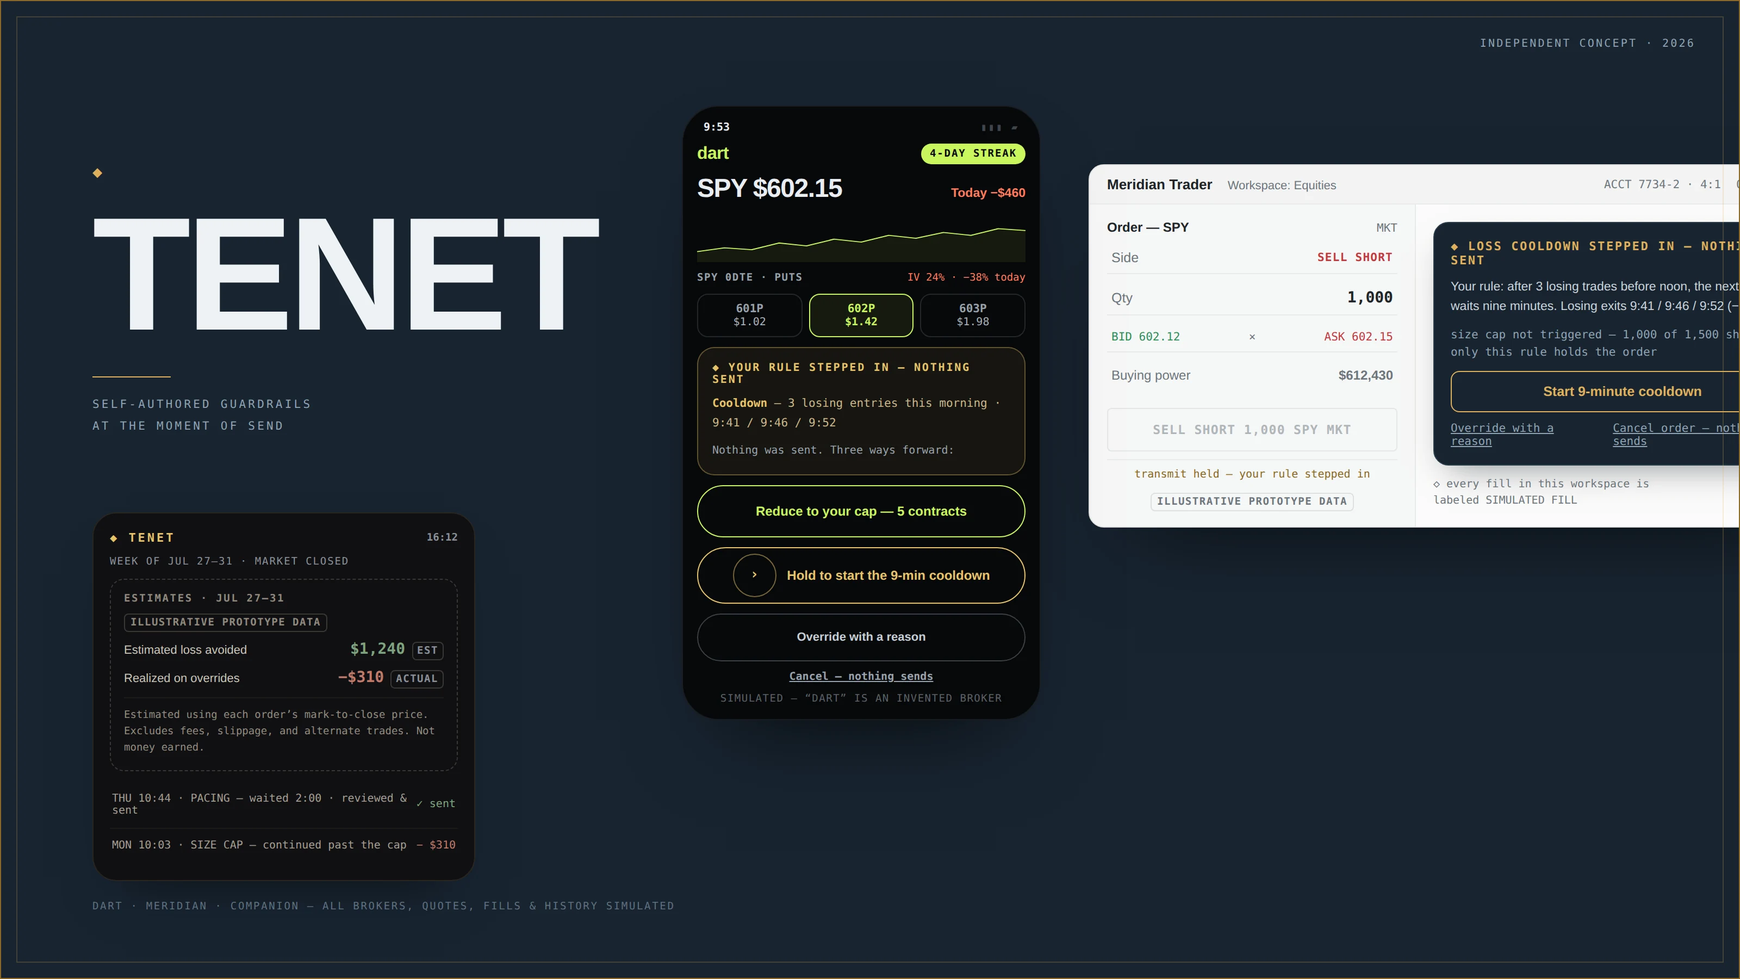
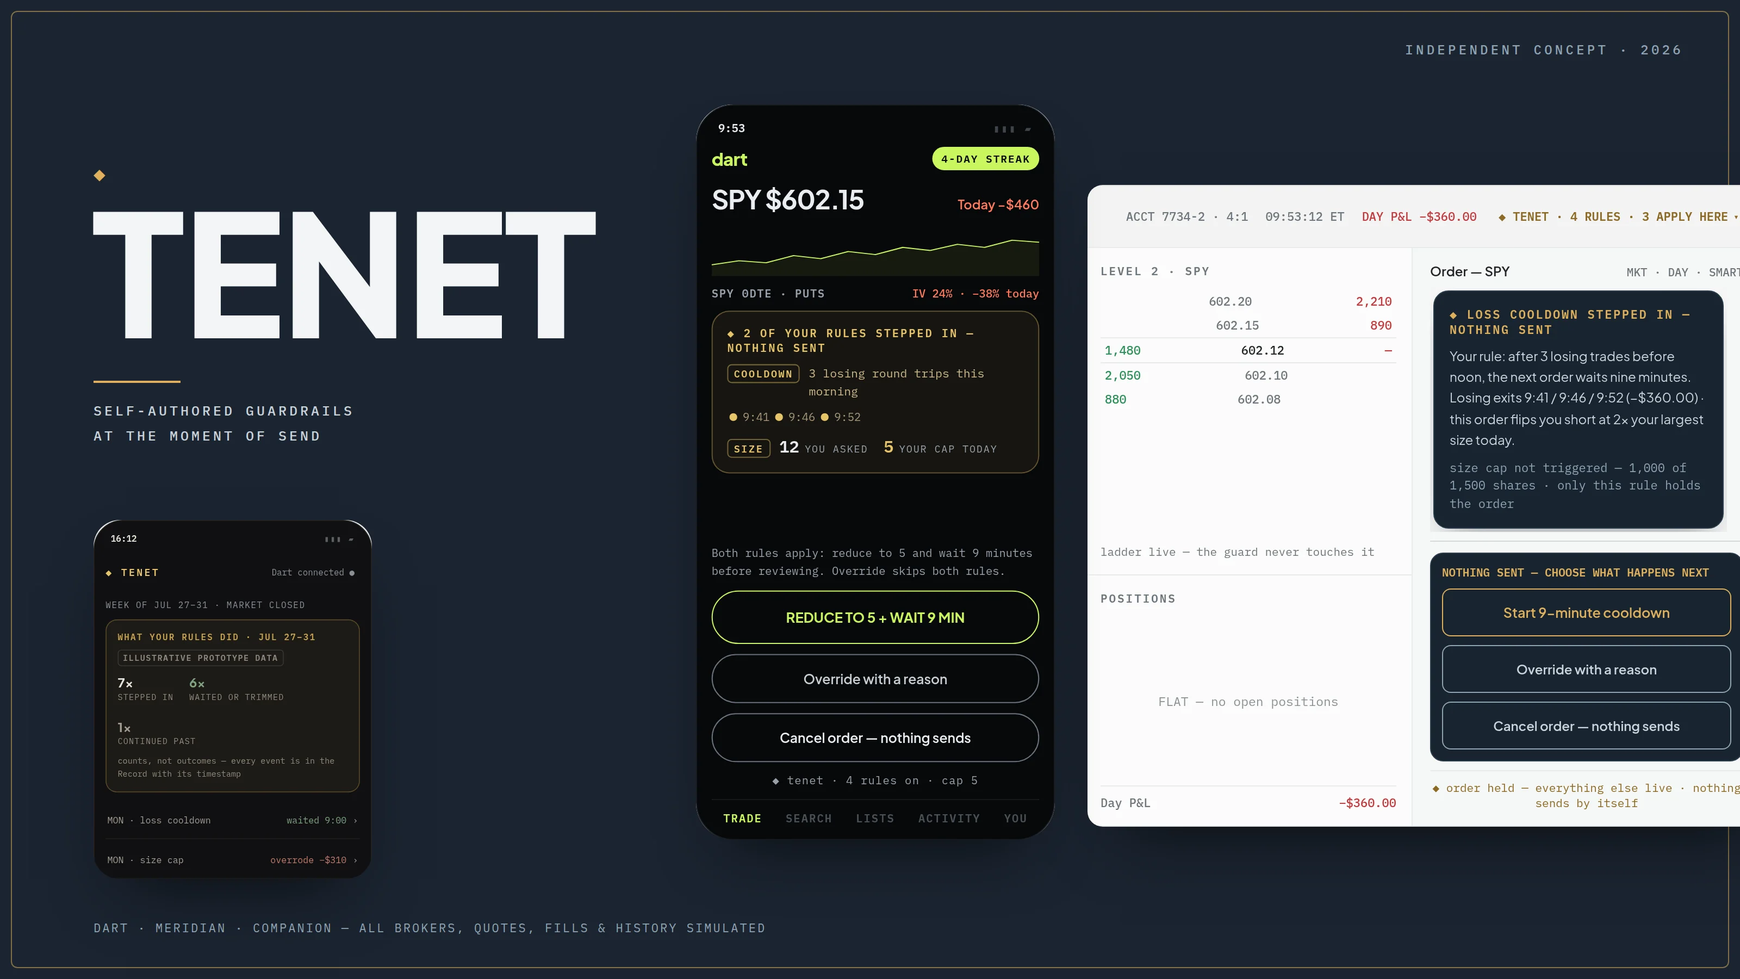
Refresh stale card art, align project numbering, add landmarks, fix copy and docs contrast
- Regenerate images/tenet/card.webp from the current prototype captures so the
  cover shows the combined "Reduce to 5 + wait 9 min" action instead of the
  retired separate actions; update the homepage alt text to match
- Regenerate images/social-card.png with the new Tenet art and the site's own
  positioning line
- Make project numbers agree everywhere: Morsel 01, Tenet 02, Hey Period 03,
  Matrix 04, Nhat Huong 05, Mug 06, Chatter 07; chain Mug to Chatter and drop
  the number from Matrix's back-to-work card
- Wrap page content in a <main> landmark on the homepage, About, Sketchbook and
  every live case study
- Chatter and Mug: rewrite headings that asserted research findings the body
  disclaims; Hey Period: remove an export note and a soft hyphen from the copy;
  Matrix: state the device-chrome inconsistency without the apology
- Morsel docs and the v3 prototype footer: raise secondary ink, link and accent
  colors to 4.5:1 or better

Claude-Session: https://claude.ai/code/session_01RPhUJV5Dq1bKkTBxfz4peW

diff --git a/morsel-docs/wireflow.html b/morsel-docs/wireflow.html
@@ -12,12 +12,12 @@
   body { font-family: "Hanken Grotesk", sans-serif; background: #EDE6D8; }
   .bar { display: flex; align-items: center; gap: 16px; flex-wrap: wrap; padding: 14px 24px; font-size: 13px; color: #5C4B38; }
   .bar .grow { flex: 1; }
-  .bar a { color: #B0542F; font-weight: 700; text-decoration: none; }
+  .bar a { color: #9C4726; font-weight: 700; text-decoration: none; }
   .bar a:hover { text-decoration: underline; }
   .zoomctl { display: flex; align-items: center; gap: 6px; }
   .zoomctl button { font: inherit; font-weight: 700; color: #5C4B38; background: #FFFCF5; border: 1px solid rgba(38,25,14,.18); border-radius: 99px; padding: 6px 14px; cursor: pointer; }
   .zoomctl button[data-on="true"] { background: #26190E; color: #F7F1E6; border-color: #26190E; }
-  .zoomctl .pct { font-weight: 700; min-width: 42px; text-align: center; color: rgba(38,25,14,.55); }
+  .zoomctl .pct { font-weight: 700; min-width: 42px; text-align: center; color: rgba(38,25,14,.65); }
   .viewport { width: 100%; overflow: auto; padding-bottom: 40px; }
   .fitbox { margin: 0 auto; }
   .stage { width: 1580px; height: 880px; transform-origin: top left; }
@@ -32,25 +32,25 @@
     border-radius: 12px; padding: 10px 12px; box-sizing: border-box;
   }
   .node h2 { margin: 0 0 4px; font-family: "Lora", serif; font-weight: 600; font-size: 15px; }
-  .node p { margin: 0 0 6px; font-size: 11.5px; line-height: 1.4; color: rgba(38,25,14,.62); }
-  .node .kicker { font-size: 9.5px; font-weight: 700; letter-spacing: .08em; text-transform: uppercase; color: rgba(38,25,14,.4); margin-bottom: 2px; }
+  .node p { margin: 0 0 6px; font-size: 11.5px; line-height: 1.4; color: rgba(38,25,14,.66); }
+  .node .kicker { font-size: 9.5px; font-weight: 700; letter-spacing: .08em; text-transform: uppercase; color: rgba(38,25,14,.65); margin-bottom: 2px; }
   .overlay { border-style: dashed; background: #FBF6EC; }
   .tags { display: flex; flex-wrap: wrap; gap: 4px; }
   .tag { font-size: 10px; font-weight: 700; border-radius: 99px; padding: 3px 8px; line-height: 1.2; }
   .tag.green { background: #DCE8D4; color: #3D5A2E; }
   .tag.amber { background: #F3E2C0; color: #7A5A16; }
-  .tag.exit { background: #EFE6D6; color: rgba(38,25,14,.55); }
+  .tag.exit { background: #EFE6D6; color: rgba(38,25,14,.65); }
   svg.wires { position: absolute; inset: 0; pointer-events: none; }
   svg.wires path, svg.wires line { fill: none; stroke: #A08D77; stroke-width: 2; }
   svg.wires .dashed { stroke-dasharray: 6 5; }
-  .wire-label { position: absolute; font-size: 10px; font-weight: 700; color: #8A7A66; background: #F7F1E6; padding: 1px 5px; border-radius: 6px; z-index: 5; }
+  .wire-label { position: absolute; font-size: 10px; font-weight: 700; color: #6F5F4B; background: #F7F1E6; padding: 1px 5px; border-radius: 6px; z-index: 5; }
   .titleblock { position: absolute; left: 28px; top: 22px; width: 600px; }
   .titleblock h1 { margin: 0; font-family: "Lora", serif; font-weight: 600; font-size: 26px; }
-  .titleblock p { margin: 6px 0 0; font-size: 12.5px; line-height: 1.5; color: rgba(38,25,14,.62); }
+  .titleblock p { margin: 6px 0 0; font-size: 12.5px; line-height: 1.5; color: rgba(38,25,14,.66); }
   .legend { position: absolute; right: 28px; top: 26px; display: flex; gap: 14px; align-items: center; font-size: 11.5px; color: rgba(38,25,14,.7); }
   .legend .tag { font-size: 10px; }
   .legend .dash { width: 26px; height: 0; border-top: 2px dashed #A08D77; display: inline-block; }
-  a { color: #B0542F; }
+  a { color: #9C4726; }
 </style>
 </head>
 <body>

diff --git a/heyperiod.html b/heyperiod.html
@@ -37,6 +37,7 @@
         <a class="bar-loc" href="mailto:lanchib.nguyen@gmail.com">OPEN TO NEW ROLES &rarr;</a>
       </header>
       <div class="bar-hairline"></div>
+      <main>
 
       <!-- hero -->
       <section class="proj-hero" id="case">
@@ -116,7 +117,7 @@
               <tr><th>Competitor</th><th>What it owns</th><th>Trust signal</th><th>Implication for Hey Period</th></tr>
               <tr><td><b>Flo</b></td><td>Category default; the pink</td><td>Ubiquity: "everyone uses it"</td><td>Borrow the familiar pink; differentiate on <em>lab data</em>, which Flo lacks</td></tr>
               <tr><td><b>Clue</b></td><td>Science-forward tracking</td><td>Clinical tone, citations</td><td>Matching Clue's coldness would erase the warmth women's-health forums say they miss</td></tr>
-              <tr><td><b>Mail-in test kits</b> (Everlywe&shy;ll-type)</td><td>The mail-a-sample behavior</td><td>Medical packaging, results dashboards</td><td>Proof the barrier is the unfamiliar <em>sample type</em>, once the kit feels professional</td></tr>
+              <tr><td><b>Mail-in test kits</b> (Everlywell-type)</td><td>The mail-a-sample behavior</td><td>Medical packaging, results dashboards</td><td>Proof the barrier is the unfamiliar <em>sample type</em>, once the kit feels professional</td></tr>
             </table></div>
             <p class="proj-p" style="margin-top:14px" data-ed="29">The two personas below were planning tools, not research findings. They gave the team two different trust thresholds to design for: someone already comfortable with health tracking, and someone using the product for a specific medical need.</p>
             <figure class="figure" style="margin-top: 26px">
@@ -173,7 +174,7 @@
             </div>
             <figure class="figure" style="margin-top: 26px">
               <img class="shot-img" src="images/heyperiod/web-fixed.webp" alt="Marketing website design: hero with 'Your period, your health, your way', biomarker map, three-step how-it-works, goal-based sections with charts, and waitlist signup" width="1600" height="1316" loading="lazy" data-ed="39" />
-              <figcaption class="figcap" data-ed="40"><span class="fk">Full site</span>(Typo in the goals headline corrected from the earlier export.)</figcaption>
+              <figcaption class="figcap" data-ed="40"><span class="fk">Full site</span>The waitlist page in full: explanation first, goal-based sections, then the signup.</figcaption>
             </figure>
           </div>
         </div>
@@ -245,8 +246,9 @@
       </section>
 
       <!-- next project -->
+      </main>
       <a class="next-proj" href="nhathuong.html">
-        <span><span class="k" data-ed="51">NEXT PROJECT &mdash; &#8470; 04</span><span class="t" data-ed="52">Nhat Huong Bakery &mdash; a legacy brand, modernised</span></span>
+        <span><span class="k" data-ed="51">NEXT PROJECT &mdash; &#8470; 05</span><span class="t" data-ed="52">Nhat Huong Bakery &mdash; a legacy brand, modernised</span></span>
         <span class="arw">&rarr;</span>
       </a>
     </div>

diff --git a/index.html b/index.html
@@ -37,6 +37,7 @@
         <a class="bar-loc" href="mailto:lanchib.nguyen@gmail.com">OPEN TO NEW ROLES &rarr;</a>
       </header>
       <div class="bar-hairline"></div>
+      <main>
 
       <!-- hero -->
       <section class="hero">
@@ -105,7 +106,7 @@
 <article class="flag f2 offset rv" data-ed="17">
             <div class="lit"><div class="lit-in">
               <a class="cover-link" href="tenet.html" aria-label="Tenet — interact with the prototype and read the case study"></a>
-              <img class="flag-img" src="images/tenet/card.webp" alt="Tenet portfolio card art: the wordmark beside the Companion estimates panel, the Dart phone with 'Your rule stepped in — nothing sent', and the light Meridian workstation with its loss-cooldown panel" width="1600" height="900" loading="lazy" data-ed="18" />
+              <img class="flag-img" src="images/tenet/card.webp" alt="Tenet portfolio card art: the wordmark beside three prototype surfaces. The Companion home with what your rules did this week, the Dart phone with '2 of your rules stepped in — nothing sent' and the combined Reduce to 5 + wait 9 min action, and the light Meridian workstation with its loss-cooldown panel" width="1600" height="900" loading="lazy" data-ed="18" />
               <div class="sleeve"><span class="l" data-ed="19">&#8470; 02 &middot; FUNCTIONAL PROTOTYPE &middot; 2026</span><span class="r" data-ed="20">&#9733; NEW</span></div>
               <div class="flag-body">
                 <span class="t" data-ed="21">Tenet</span>
@@ -153,7 +154,7 @@
 <div class="tin-wrap rv" data-ed="39">
   <a class="cover-link" href="nhathuong.html" aria-label="Read the Nhat Huong visual-system case study"></a>
   <div class="tin arbor"><img class="tin-img" src="images/nhathuong/lineup.webp" alt="Nhat Huong packaging system across product families" width="1600" height="900" loading="lazy" data-ed="40" />
-    <div class="in"><span class="no" data-ed="41">CLIENT &middot; VISUAL SYSTEM</span><span class="t" data-ed="42">Nhat Huong</span>
+    <div class="in"><span class="no" data-ed="41">&#8470; 05 &middot; CLIENT &middot; VISUAL SYSTEM</span><span class="t" data-ed="42">Nhat Huong</span>
     <span class="d" data-ed="43">A packaging system built around a retained identity, with color and pattern organizing the range.</span><span class="metric" data-static data-ed="44">BRAND TEAM &middot; DELIVERED DESIGNS</span></div>
   </div></div>
 </div>
@@ -215,6 +216,7 @@
       </section>
 
       <!-- footer / contact -->
+      </main>
       <footer class="foot stripes-dark" id="home-contact">
         <div class="bloom"></div>
         <span class="t rv" data-ed="59">Want to work <em>together?</em></span>

diff --git a/matrix.html b/matrix.html
@@ -37,11 +37,12 @@
         <a class="bar-loc" href="mailto:lanchib.nguyen@gmail.com">OPEN TO NEW ROLES &rarr;</a>
       </header>
       <div class="bar-hairline"></div>
+      <main>
 
       <!-- hero -->
       <section class="proj-hero" id="case">
         <div class="bloom"></div>
-        <a class="backlink" href="index.html#home-work">&larr; WORK / &#8470; 06 &middot; CLIENT</a>
+        <a class="backlink" href="index.html#home-work">&larr; WORK / &#8470; 04 &middot; CLIENT</a>
         <div class="proj-hero-grid">
           <div class="rv">
             <h1 data-ed="0">Matrix &mdash; making the next choice <em>visible</em></h1>
@@ -154,7 +155,7 @@
             <p class="proj-p" data-ed="36">The boards show the core flows, recurring components, and spacing within the supplied visual language. A complete implementation review would also need the following:</p>
             <ul class="feat-list">
               <li data-ed="37">Loading, empty, and error states are not shown here. The illustrated boards do not establish the contents of the complete handoff.</li>
-              <li data-ed="38">Device chrome is inconsistent across two boards (iOS status bars on some screens, not others); I'd re-export before showing these again.</li>
+              <li data-ed="38">Two boards carry different device chrome: iOS status bars on some screens and none on others. The flows shown are unaffected; a clean re-export is still to do.</li>
               <li data-ed="39">The neon-on-dark palette came with its contrast choices; small grey metadata on near-black is what I'd challenge first in a week two.</li>
             </ul>
             <p class="proj-p" style="margin-top:18px" data-ed="40">A follow-up review would first confirm state coverage with engineering, then resolve the states not shown here:</p>
@@ -183,8 +184,9 @@
       </section>
 
       <!-- next project -->
+      </main>
       <a class="next-proj" href="index.html#home-work">
-        <span><span class="k" data-ed="43">NEXT PROJECT &mdash; &#8470; 07</span><span class="t" data-ed="44">Back to selected work</span></span>
+        <span><span class="k" data-ed="43">NEXT</span><span class="t" data-ed="44">Back to selected work</span></span>
         <span class="arw">&rarr;</span>
       </a>
     </div>

diff --git a/chatter.html b/chatter.html
@@ -37,6 +37,7 @@
         <a class="bar-loc" href="mailto:lanchib.nguyen@gmail.com">OPEN TO NEW ROLES &rarr;</a>
       </header>
       <div class="bar-hairline"></div>
+      <main>
 
       <!-- hero -->
       <section class="proj-hero" id="case">
@@ -96,7 +97,7 @@
       <section class="proj-sec">
         <div class="rule"></div>
         <div class="proj-row rv">
-          <span class="side" role="heading" aria-level="2">PEOPLE LIKED CALLS,<br>BUT NOT THE SETUP</span>
+          <span class="side" role="heading" aria-level="2">WAS IT THE CALL,<br>OR THE SETUP?</span>
           <div style="display: flex; flex-direction: column; gap: 22px;">
             <p class="proj-p" data-ed="20">The working map below organizes concerns around writing updates, finding time to call, and catching up with context. It is included as an early design artifact; it does not establish participant counts or a representative finding.</p>
             <div class="quotes">
@@ -197,7 +198,7 @@
       <section class="proj-sec">
         <div class="rule"></div>
         <div class="proj-row rv">
-          <span class="side" role="heading" aria-level="2">THIS TIME, PEOPLE<br>NAMED USE CASES</span>
+          <span class="side" role="heading" aria-level="2">COULD A CAP MAKE A CALL<br>EASIER TO START?</span>
           <div style="display: flex; flex-direction: column; gap: 22px;">
             <p class="proj-p" data-ed="45">The final screens let the caller choose a time cap. This adds flexibility, but leaves a question: can a recipient still judge the commitment at a glance? The case does not establish a participant finding for that choice.</p>
             <div class="quotes">
@@ -295,8 +296,9 @@
       </section>
 
       <!-- next project -->
+      </main>
       <a class="next-proj" href="tenet.html">
-        <span><span class="k" data-ed="57">BACK TO &#8470; 01</span><span class="t" data-ed="58">Tenet &mdash; one deliberate moment</span></span>
+        <span><span class="k" data-ed="57">BACK TO &#8470; 02</span><span class="t" data-ed="58">Tenet &mdash; one deliberate moment</span></span>
         <span class="arw">&rarr;</span>
       </a>
     </div>

diff --git a/mug.html b/mug.html
@@ -37,11 +37,12 @@
         <a class="bar-loc" href="mailto:lanchib.nguyen@gmail.com">OPEN TO NEW ROLES &rarr;</a>
       </header>
       <div class="bar-hairline"></div>
+      <main>
 
       <!-- hero -->
       <section class="proj-hero" id="case">
         <div class="bloom"></div>
-        <a class="backlink" href="index.html#home-work">&larr; WORK / &#8470; 05 &middot; CONCEPT</a>
+        <a class="backlink" href="index.html#home-work">&larr; WORK / &#8470; 06 &middot; CONCEPT</a>
         <div class="proj-hero-grid">
           <div class="rv">
             <h1 data-ed="0">Mug &mdash; rewards for bringing your <em>own cup</em></h1>
@@ -88,7 +89,7 @@
       <section class="proj-sec">
         <div class="rule"></div>
         <div class="proj-row rv">
-          <span class="side" role="heading" aria-level="2">PEOPLE DID NOT NEED<br>ANOTHER LECTURE</span>
+          <span class="side" role="heading" aria-level="2">THE BET: CONVENIENCE,<br>NOT ANOTHER LECTURE</span>
           <p class="statement" data-ed="20">The concept assumes that forgetting, time pressure, and an unclear reward can get in the way of bringing a reusable cup. It explores convenience and incentives rather than treating awareness alone as the problem.</p>
         </div>
       </section>
@@ -290,8 +291,9 @@
       </section>
 
       <!-- next project -->
-      <a class="next-proj" href="matrix.html">
-        <span><span class="k" data-ed="67">NEXT PROJECT &mdash; &#8470; 06</span><span class="t" data-ed="68">Matrix &mdash; build-ready UI in one week</span></span>
+      </main>
+      <a class="next-proj" href="chatter.html">
+        <span><span class="k" data-ed="67">NEXT PROJECT &mdash; &#8470; 07</span><span class="t" data-ed="68">Chatter &mdash; from written updates to short calls</span></span>
         <span class="arw">&rarr;</span>
       </a>
     </div>

diff --git a/morsel-proto/v3/app/app.jsx b/morsel-proto/v3/app/app.jsx
@@ -288,14 +288,14 @@ function MorselPage() {
           <MorselApp />
         </div>
       </div>
-      <div style={{ fontFamily: "'Hanken Grotesk', sans-serif", fontSize: 13, color: "#8A7A66", display: "flex", flexDirection: "column", alignItems: "center", gap: 6 }}>
+      <div style={{ fontFamily: "'Hanken Grotesk', sans-serif", fontSize: 13, color: "#6F5F4B", display: "flex", flexDirection: "column", alignItems: "center", gap: 6 }}>
         <div style={{ display: "flex", gap: 14, alignItems: "center", flexWrap: "wrap", justifyContent: "center", padding: "0 16px" }}>
           <span style={{ fontWeight: 700, color: "#5C4B38" }}>Morsel v3</span>
           <span>final iteration</span>
-          <a href="../morsel-docs/wireflow.html" style={{ color: "#B0542F", fontWeight: 600 }}>wireflow →</a>
-          <a href="../morsel-docs/explorations.html" style={{ color: "#B0542F", fontWeight: 600 }}>explorations →</a>
-          <a href="../morsel-docs/ds-addendum.html" style={{ color: "#B0542F", fontWeight: 600 }}>ds addendum →</a>
-          <a href="../morsel.html" style={{ color: "#B0542F", fontWeight: 600 }}>case study →</a>
+          <a href="../morsel-docs/wireflow.html" style={{ color: "#9C4726", fontWeight: 600 }}>wireflow →</a>
+          <a href="../morsel-docs/explorations.html" style={{ color: "#9C4726", fontWeight: 600 }}>explorations →</a>
+          <a href="../morsel-docs/ds-addendum.html" style={{ color: "#9C4726", fontWeight: 600 }}>ds addendum →</a>
+          <a href="../morsel.html" style={{ color: "#9C4726", fontWeight: 600 }}>case study →</a>
         </div>
         <div style={{ fontSize: 12, maxWidth: 560, textAlign: "center" }}>Prototype: all diner counts, scores, save numbers, names, and quotes are illustrative seed data — not real customer evidence.</div>
       </div>

diff --git a/nhathuong.html b/nhathuong.html
@@ -37,11 +37,12 @@
         <a class="bar-loc" href="mailto:lanchib.nguyen@gmail.com">OPEN TO NEW ROLES &rarr;</a>
       </header>
       <div class="bar-hairline"></div>
+      <main>
 
       <!-- hero -->
       <section class="proj-hero" id="case">
         <div class="bloom"></div>
-        <a class="backlink" href="index.html#home-work">&larr; WORK / &#8470; 04 &middot; CLIENT &middot; TEAM</a>
+        <a class="backlink" href="index.html#home-work">&larr; WORK / &#8470; 05 &middot; CLIENT &middot; TEAM</a>
         <div class="proj-hero-grid">
           <div class="rv">
             <h1 data-ed="0">Nhat Huong &mdash; keep the hat, keep the <em>red</em></h1>
@@ -267,8 +268,9 @@
       </section>
 
       <!-- next project -->
+      </main>
       <a class="next-proj" href="matrix.html">
-        <span><span class="k" data-ed="64">NEXT PROJECT &mdash; &#8470; 05</span><span class="t" data-ed="65">Matrix &mdash; making the next choice visible</span></span>
+        <span><span class="k" data-ed="64">NEXT PROJECT &mdash; &#8470; 04</span><span class="t" data-ed="65">Matrix &mdash; making the next choice visible</span></span>
         <span class="arw">&rarr;</span>
       </a>
     </div>

diff --git a/morsel.html b/morsel.html
@@ -37,11 +37,12 @@
         <a class="bar-loc" href="mailto:lanchib.nguyen@gmail.com">OPEN TO NEW ROLES &rarr;</a>
       </header>
       <div class="bar-hairline"></div>
+      <main>
 
       <!-- hero -->
       <section class="proj-hero" id="case">
         <div class="bloom"></div>
-        <a class="backlink" href="index.html#home-work">&larr; WORK / &#8470; 02 &middot; PROTOTYPE &middot; iOS</a>
+        <a class="backlink" href="index.html#home-work">&larr; WORK / &#8470; 01 &middot; PROTOTYPE &middot; iOS</a>
         <div class="proj-hero-grid">
           <div class="rv">
             <h1 data-ed="0">Morsel &mdash; eat with your <em>eyes</em></h1>
@@ -289,6 +290,7 @@
       </section>
 
       <!-- next project -->
+      </main>
       <a class="next-proj" href="heyperiod.html">
         <span><span class="k" data-ed="74">NEXT PROJECT &mdash; &#8470; 03</span><span class="t" data-ed="75">Hey Period &mdash; a brand women would trust</span></span>
         <span class="arw">&rarr;</span>

diff --git a/morsel-docs/ds-addendum.html b/morsel-docs/ds-addendum.html
@@ -8,7 +8,7 @@
 <title>Morsel — design system addendum (v2/v3/v3.1)</title>
 <link href="https://fonts.googleapis.com/css2?family=Lora:wght@600&family=Hanken+Grotesk:wght@400;600;700;800&display=swap" rel="stylesheet" />
 <style>
-  :root { --paper:#F7F1E6; --surface:#FFFCF5; --sunken:#EFE6D6; --ink:#26190E; --ink2:rgba(38,25,14,.62); --ink3:rgba(38,25,14,.4); --line:rgba(38,25,14,.12); --accent:#C2492B; --accent-ink:#FFF6EC; }
+  :root { --paper:#F7F1E6; --surface:#FFFCF5; --sunken:#EFE6D6; --ink:#26190E; --ink2:rgba(38,25,14,.66); --ink3:rgba(38,25,14,.65); --line:rgba(38,25,14,.12); --accent:#AA3C1C; --accent-ink:#FFF6EC; }
   * { box-sizing: border-box; margin: 0; }
   body { background: var(--paper); color: var(--ink); font-family: "Hanken Grotesk", sans-serif; -webkit-font-smoothing: antialiased; }
   .page { max-width: 920px; margin: 0 auto; padding: 56px 32px 96px; }

diff --git a/morsel-docs/testing-plan.html b/morsel-docs/testing-plan.html
@@ -8,7 +8,7 @@
 <title>Morsel — usability testing plan (two rounds)</title>
 <link href="https://fonts.googleapis.com/css2?family=Lora:wght@600&family=Hanken+Grotesk:wght@400;600;700;800&display=swap" rel="stylesheet" />
 <style>
-  :root { --paper:#F7F1E6; --surface:#FFFCF5; --sunken:#EFE6D6; --ink:#26190E; --ink2:rgba(38,25,14,.62); --ink3:rgba(38,25,14,.4); --line:rgba(38,25,14,.12); --accent:#C2492B; }
+  :root { --paper:#F7F1E6; --surface:#FFFCF5; --sunken:#EFE6D6; --ink:#26190E; --ink2:rgba(38,25,14,.66); --ink3:rgba(38,25,14,.65); --line:rgba(38,25,14,.12); --accent:#AA3C1C; }
   * { box-sizing: border-box; margin: 0; }
   body { background: var(--paper); color: var(--ink); font-family: "Hanken Grotesk", sans-serif; -webkit-font-smoothing: antialiased; }
   .page { max-width: 880px; margin: 0 auto; padding: 56px 32px 96px; }

diff --git a/morsel-docs/explorations.html b/morsel-docs/explorations.html
@@ -8,7 +8,7 @@
 <title>Morsel — structural explorations</title>
 <link href="https://fonts.googleapis.com/css2?family=Lora:wght@600&family=Hanken+Grotesk:wght@400;600;700;800&display=swap" rel="stylesheet" />
 <style>
-  :root { --paper:#F7F1E6; --surface:#FFFCF5; --sunken:#EFE6D6; --ink:#26190E; --ink2:rgba(38,25,14,.62); --ink3:rgba(38,25,14,.4); --line:rgba(38,25,14,.12); --accent:#C2492B; }
+  :root { --paper:#F7F1E6; --surface:#FFFCF5; --sunken:#EFE6D6; --ink:#26190E; --ink2:rgba(38,25,14,.66); --ink3:rgba(38,25,14,.65); --line:rgba(38,25,14,.12); --accent:#AA3C1C; }
   * { box-sizing: border-box; margin: 0; }
   body { background: var(--paper); color: var(--ink); font-family: "Hanken Grotesk", sans-serif; -webkit-font-smoothing: antialiased; }
   .page { max-width: 1060px; margin: 0 auto; padding: 56px 32px 96px; }
